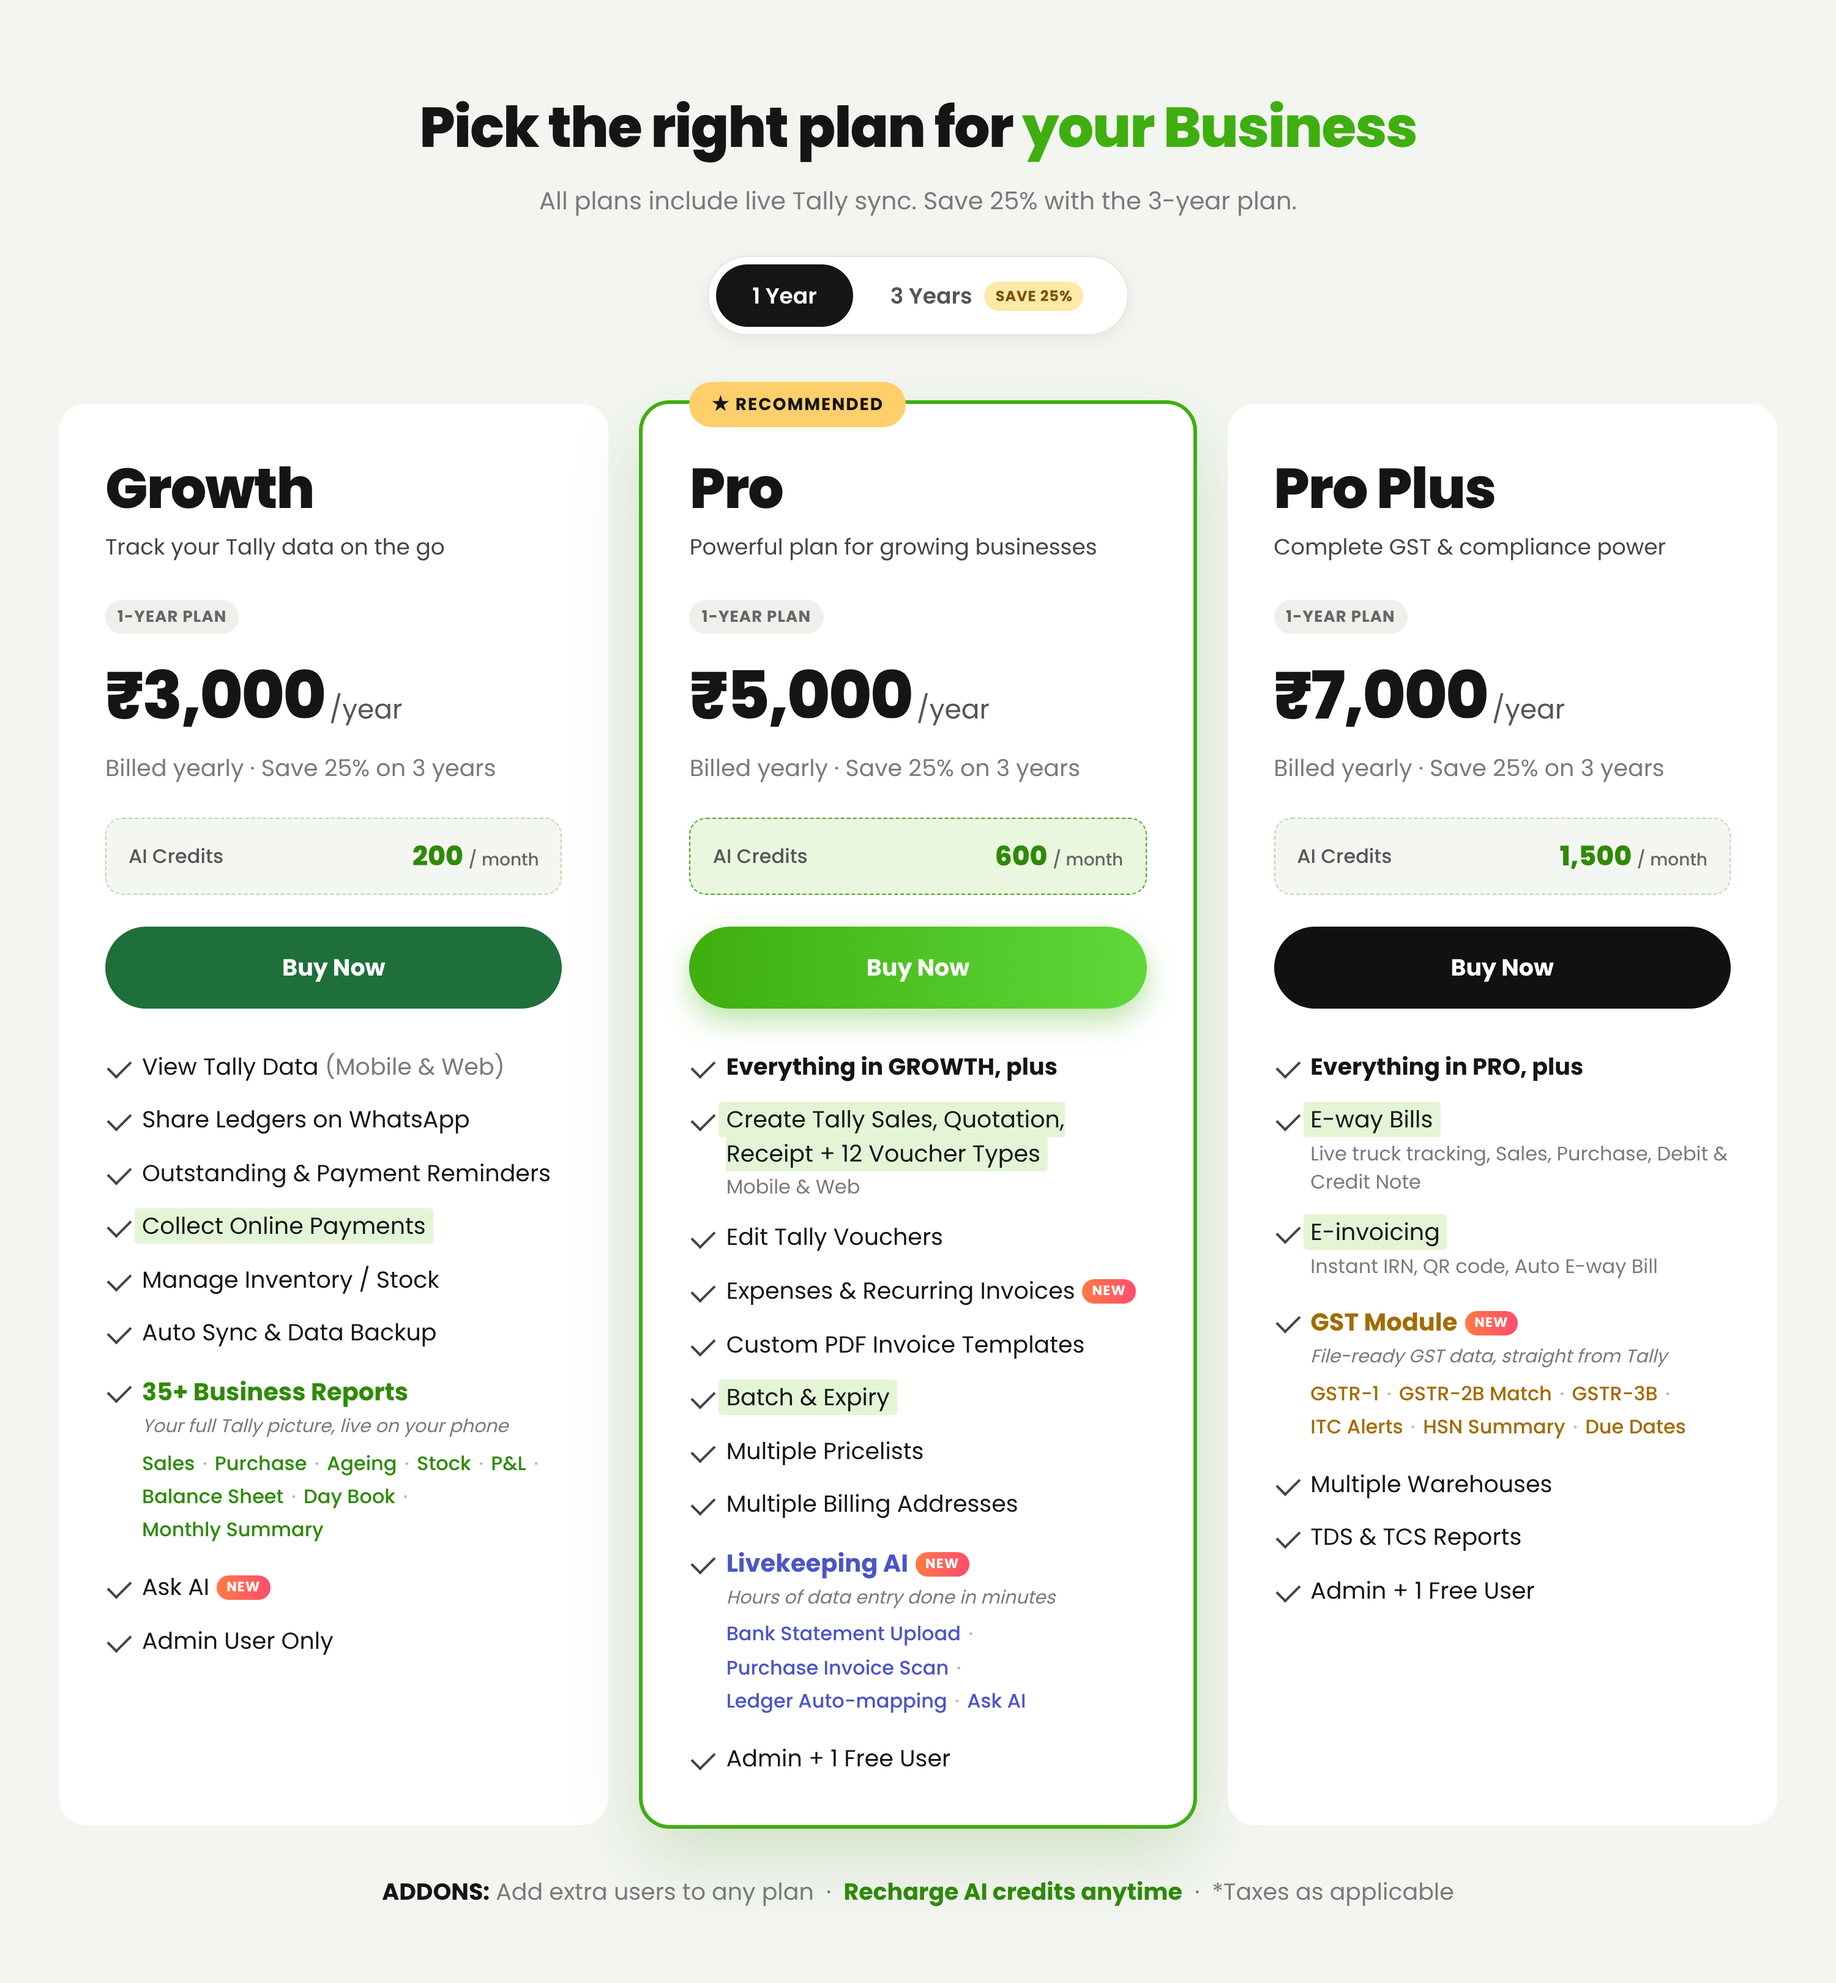
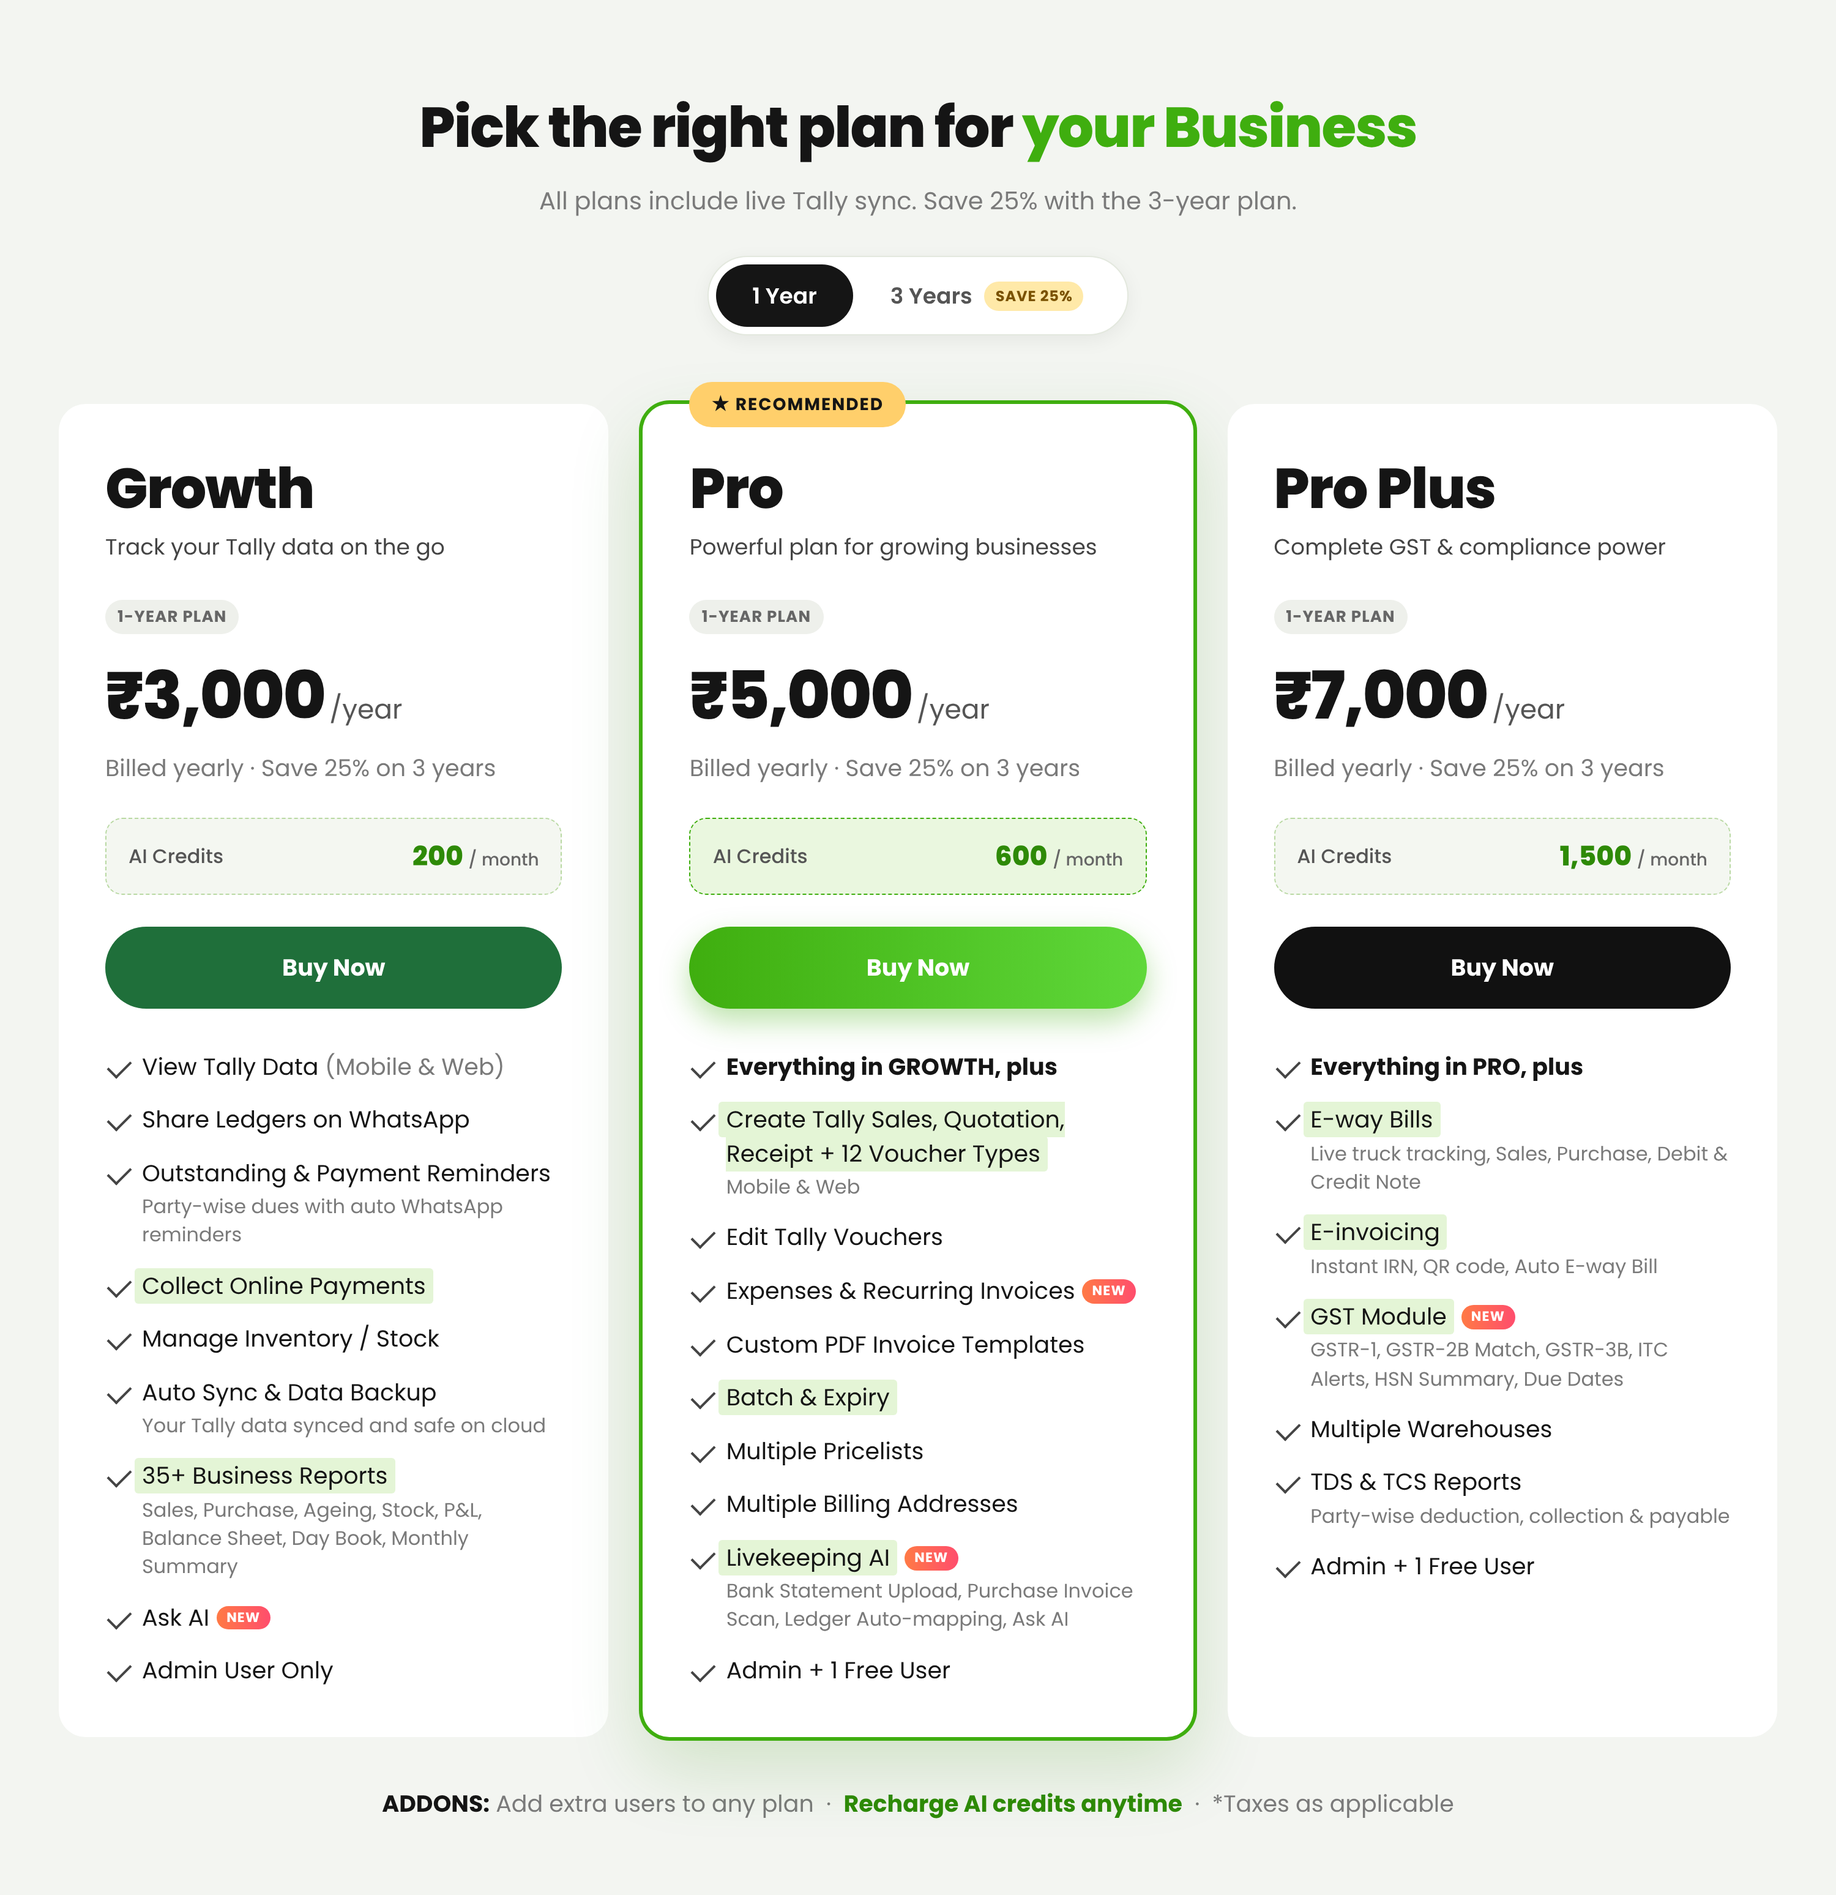
Pricing cards: simple module notes, one-liners for outstanding, backup, TDS & TCS
Claude-Session: https://claude.ai/code/session_01TUFe6273V25gsCzznixesV

diff --git a/livekeeping-pricing/cards.html b/livekeeping-pricing/cards.html
@@ -146,11 +146,11 @@
       <ul>
         <li><div>View Tally Data <span class="sub2">(Mobile &amp; Web)</span></div></li>
         <li><div>Share Ledgers on WhatsApp</div></li>
-        <li><div>Outstanding &amp; Payment Reminders</div></li>
+        <li><div>Outstanding &amp; Payment Reminders<span class="note">Party-wise dues with auto WhatsApp reminders</span></div></li>
         <li><div><span class="hl">Collect Online Payments</span></div></li>
         <li><div>Manage Inventory / Stock</div></li>
-        <li><div>Auto Sync &amp; Data Backup</div></li>
-        <li class="feat rep"><div><span class="feat-title">35+ Business Reports</span><span class="feat-desc">Your full Tally picture, live on your phone</span><span class="feat-pts"><b>Sales</b> <i>·</i> <b>Purchase</b> <i>·</i> <b>Ageing</b> <i>·</i> <b>Stock</b> <i>·</i> <b>P&amp;L</b> <i>·</i> <b>Balance Sheet</b> <i>·</i> <b>Day Book</b> <i>·</i> <b>Monthly Summary</b></span></div></li>
+        <li><div>Auto Sync &amp; Data Backup<span class="note">Your Tally data synced and safe on cloud</span></div></li>
+        <li><div><span class="hl">35+ Business Reports</span><span class="note">Sales, Purchase, Ageing, Stock, P&amp;L, Balance Sheet, Day Book, Monthly Summary</span></div></li>
         <li><div>Ask AI<span class="new">NEW</span></div></li>
         <li><div>Admin User Only</div></li>
       </ul>
@@ -182,7 +182,7 @@
         <li><div><span class="hl">Batch &amp; Expiry</span></div></li>
         <li><div>Multiple Pricelists</div></li>
         <li><div>Multiple Billing Addresses</div></li>
-        <li class="feat ai"><div><span class="feat-title">Livekeeping AI</span><span class="new">NEW</span><span class="feat-desc">Hours of data entry done in minutes</span><span class="feat-pts"><b>Bank Statement Upload</b> <i>·</i> <b>Purchase Invoice Scan</b> <i>·</i> <b>Ledger Auto-mapping</b> <i>·</i> <b>Ask AI</b></span></div></li>
+        <li><div><span class="hl">Livekeeping AI</span><span class="new">NEW</span><span class="note">Bank Statement Upload, Purchase Invoice Scan, Ledger Auto-mapping, Ask AI</span></div></li>
         <li><div>Admin + 1 Free User</div></li>
       </ul>
     </div>
@@ -207,9 +207,9 @@
         <li><div><b>Everything in PRO, plus</b></div></li>
         <li><div><span class="hl">E-way Bills</span><span class="note">Live truck tracking, Sales, Purchase, Debit &amp; Credit Note</span></div></li>
         <li><div><span class="hl">E-invoicing</span><span class="note">Instant IRN, QR code, Auto E-way Bill</span></div></li>
-        <li class="feat gst"><div><span class="feat-title">GST Module</span><span class="new">NEW</span><span class="feat-desc">File-ready GST data, straight from Tally</span><span class="feat-pts"><b>GSTR-1</b> <i>·</i> <b>GSTR-2B Match</b> <i>·</i> <b>GSTR-3B</b> <i>·</i> <b>ITC Alerts</b> <i>·</i> <b>HSN Summary</b> <i>·</i> <b>Due Dates</b></span></div></li>
+        <li><div><span class="hl">GST Module</span><span class="new">NEW</span><span class="note">GSTR-1, GSTR-2B Match, GSTR-3B, ITC Alerts, HSN Summary, Due Dates</span></div></li>
         <li><div>Multiple Warehouses</div></li>
-        <li><div>TDS &amp; TCS Reports</div></li>
+        <li><div>TDS &amp; TCS Reports<span class="note">Party-wise deduction, collection &amp; payable</span></div></li>
         <li><div>Admin + 1 Free User</div></li>
       </ul>
     </div>
